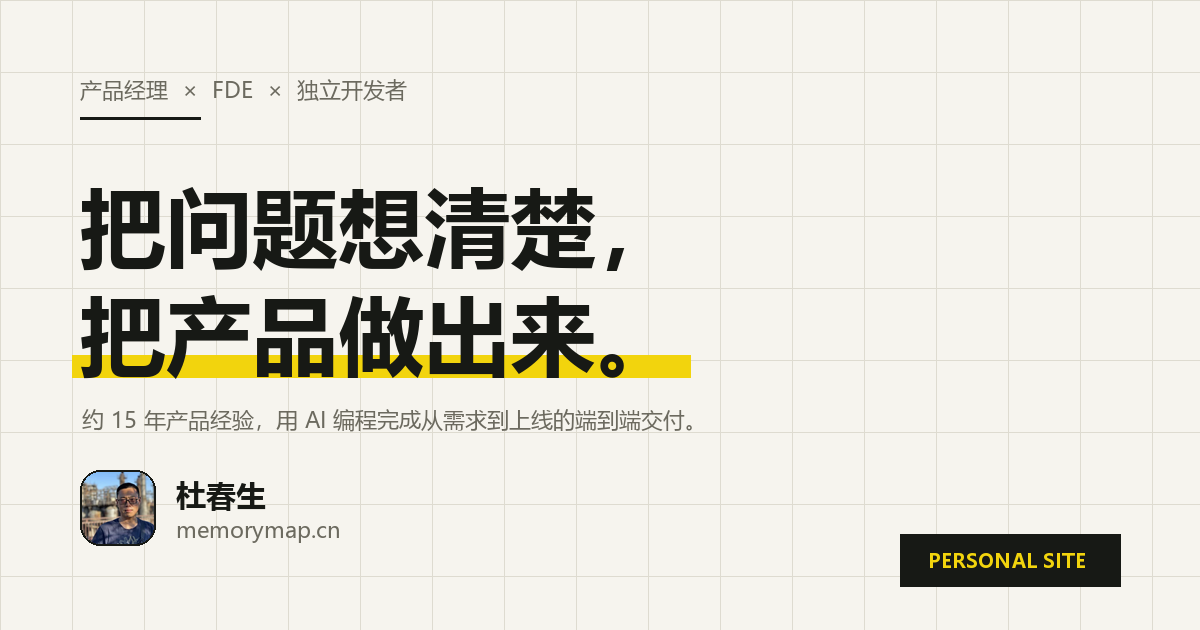
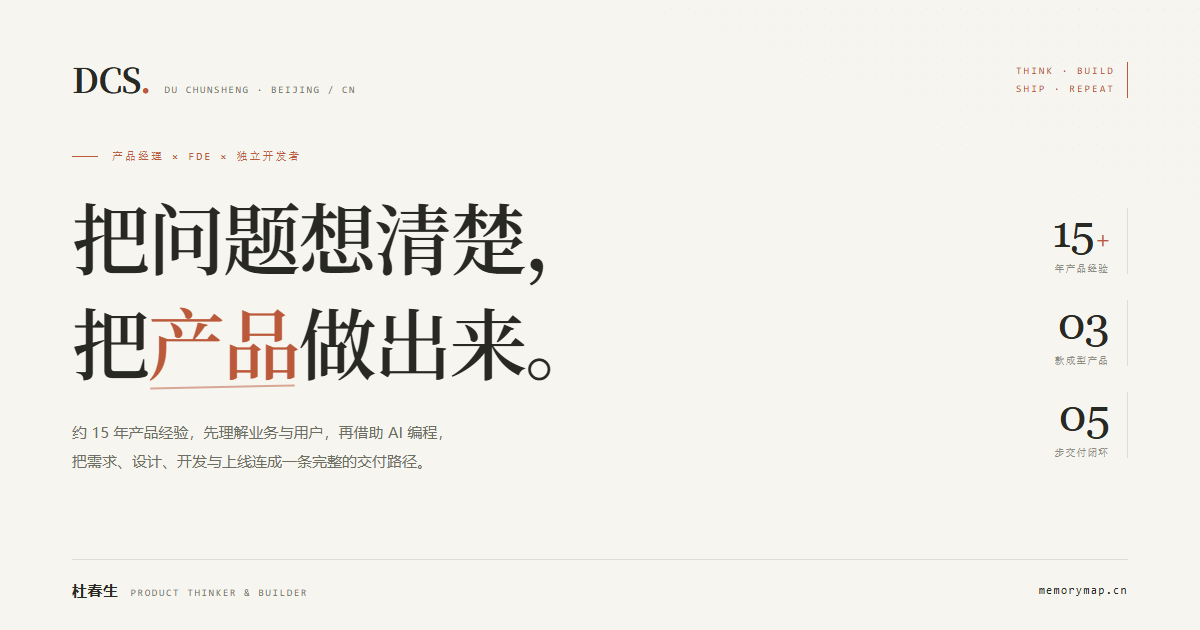
docs: 对齐官网 v2 改版（定位、产品、能力、项目、分享卡）

diff --git a/README.md b/README.md
@@ -10,15 +10,15 @@
 
 产品经理 × FDE（前沿部署工程师）× 独立开发者。
 
-约 15 年产品经验，让我习惯先理解业务与用户；现在借 AI 编程把能力延伸到开发、测试与上线——**把问题想清楚，把产品做出来。**
+约 15 年产品经验，先理解业务与用户，再借助 AI 编程，把需求、设计、开发与上线连成一条完整的交付路径——**把问题想清楚，把产品做出来。**
 
-我不太用技术名词介绍自己，更愿意直接给你看产品。
+从产品设计者，到端到端交付者。我不太用技术名词介绍自己，更愿意直接给你看产品。
 
 ---
 
 ## 独立产品
 
-三款已成型的产品，各自从一个具体问题开始。
+三个真实问题，三种产品形态。都从一个具体场景开始，也都走到了可以体验的地方。
 
 <table>
   <tr>
@@ -27,15 +27,15 @@
     </td>
     <td width="54%" valign="top">
       <h3>01 · 好运夹 goodluck+</h3>
-      <p><code>微信小程序 · Rokid Glasses</code></p>
-      <p><strong>把彩票这件事，收进一个夹子里。</strong></p>
+      <p><code>AI 工具 · 微信小程序 · 已上线</code></p>
+      <p><strong>把彩票，收进一个夹子。</strong></p>
       <ul>
-        <li>整张票拍照识别，支持手动校对</li>
+        <li>拍一张票自动识别号码，支持手动校对</li>
         <li>双色球与大乐透开奖自动比对、逐球高亮</li>
         <li>60 日兑奖提醒与 12 周购彩台账</li>
-        <li>手机与眼镜端共享同一份数据</li>
+        <li>手机与 Rokid 眼镜共享同一份数据</li>
       </ul>
-      <p><sub>只做记录、核对与管理，不卖票、不代购。</sub></p>
+      <p><sub>只做彩票管理，不卖票、不代购。</sub></p>
       <p><a href="https://lottery.memorymap.cn">lottery.memorymap.cn</a> ↗ · <a href="https://github.com/329604421/goodluck-plus">仓库</a></p>
     </td>
   </tr>
@@ -48,7 +48,7 @@
     </td>
     <td width="54%" valign="top">
       <h3>02 · 摇头晃脑</h3>
-      <p><code>Rokid Glasses · IMU 头控</code></p>
+      <p><code>体感游戏 · Rokid Glasses</code></p>
       <p><strong>五款经典游戏，转头就能玩。</strong></p>
       <ul>
         <li>打砖块、接鸡蛋、滚球迷宫、导弹指挥部、打飞机</li>
@@ -69,8 +69,8 @@
     </td>
     <td width="54%" valign="top">
       <h3>03 · Agent-ToDo</h3>
-      <p><code>微信小程序 · 平板 · PC</code></p>
-      <p><strong>几个项目同时开着，别让哪一条断在半路。</strong></p>
+      <p><code>多项目工作台 · 微信小程序 / 平板 / PC</code></p>
+      <p><strong>项目在切换，上下文不断线。</strong></p>
       <ul>
         <li>语音、文字与截图形成闪念胶囊</li>
         <li>项目待办、四档紧急度与脑图方案</li>
@@ -83,6 +83,8 @@
   </tr>
 </table>
 
+<sub>还有一些工具、应用与交互实验，正在路上。</sub>
+
 ---
 
 ## 我怎么把一件事做完
@@ -92,23 +94,45 @@
 | 01 · 聊透需求 | 02 · 设计解法 | 03 · AI 协同开发 | 04 · 测试与上线 | 05 · 反馈与迭代 |
 | :---: | :---: | :---: | :---: | :---: |
 | DISCOVER | DEFINE | BUILD | SHIP | ITERATE |
+| 理解业务与用户 | 原型、架构与 PRD | 快速构建可运行版本 | 完成场景验收 | 接住反馈持续迭代 |
+| 明确问题与约束 | 把验收口径说清楚 | 在交互中验证设计 | 部署到真实环境 | 让产品持续变好 |
 
 我更在意的不是「用了什么模型」，而是**需求转译的损耗有没有减少**——让理解业务的人直接参与实现，让原始场景、约束与验收标准始终在同一条线上。
 
+<sub>输入：业务问题与现场上下文　/　输出：可用产品与真实交付</sub>
+
 ---
 
-## 技术方向
+## 能力与方向
 
-| 方向 | 关注点 |
-| --- | --- |
-| AR / 可穿戴交互 | 头控输入手感、透明屏的信息密度、没有手柄时操作怎么收敛 |
-| AI Agent 工程化 | 待办与 agent 之间的任务契约、配额与运行态、结果回流的可读性 |
-| 小程序全栈 | 票据拍照 OCR、本地优先的数据层、日历与热力图的轻量可视化 |
-| 设计工程化 | 设计稿与代码的单点真相，让 1px 级的反馈能落进版本控制 |
+四个方向，都在真实项目里用过。
 
-代码写在 [shake-head](https://github.com/329604421/shake-head)（五款头控游戏，
-含 1378 条回归断言）与 [goodluck-plus](https://github.com/329604421/goodluck-plus)（好运夹的需求、
-设计规范与工程）。
+| 方向 | 在做什么 | 用到的 |
+| --- | --- | --- |
+| **A · AI Agent 与数据** | 把知识库、自然语言查询与文档检索嵌进业务流程；在意待办与 agent 之间的任务契约、配额与运行态 | LLM 与提示词调试、文档索引、OCR、结构化数据 |
+| **B · 多端产品交付** | 按每个终端的使用场景分配能力，而不是机械复制界面 | 微信小程序、公众号、手机 / 平板 / PC / Android |
+| **C · 硬件与空间交互** | 围绕传感器、显示与输入的真实约束设计交互：头控手感、透明屏的信息密度 | IMU 头控、Rokid 单绿 AR、RFID、重力与视觉识别 |
+| **D · 业务系统与集成** | 把新能力接进现有角色、数据与流程，兼顾目标与可行性 | SCRM、DMS、CRM、微信支付、支付宝、企业流程 |
+
+代码写在 [shake-head](https://github.com/329604421/shake-head)（五款头控游戏，含 1378 条回归断言）与 [goodluck-plus](https://github.com/329604421/goodluck-plus)（好运夹的需求、设计规范与工程）。
+
+---
+
+## 企业项目
+
+零售、支付、汽车、园区与 AI，都留下过可验收的东西。
+
+| 时间 | 项目 | 角色 |
+| --- | --- | --- |
+| 2025.11 — 2026.02 | **BMW-iQAF for PUR** · AI 采购数据与文档检索 | 产品经理 |
+| 2025.10 — 2026.02 | **BMW-Smart Handover** · 采购交接智能审核 | 产品经理 |
+| 2022.06 — 2025.03 | **宝马中国 CBW 系统** · 客户与线索服务流程 | 产品经理 |
+| 2021.02 — 2022.07 | **上汽奥迪 Astro 中台** · 中台能力与经销商服务 | 产品经理 |
+| 2020.07 — 2021.08 | **一汽丰田官方触点平台 & ADMS 二期** | 产品经理 |
+| 2020.04 — 2021.07 | **江苏园博园游客线上服务系统** · 票务与停车缴费 | 产品经理 & 项目经理 |
+| 2017.03 — 2019.08 | **智能售货柜系统** · 多传感器结算与无人零售 | 产品经理 |
+
+每个项目解决什么问题、怎么解的、边界在哪，写在官网的[项目实践](https://memorymap.cn/#practice)里。
 
 ---
 
@@ -116,15 +140,23 @@
 
 | 时间 | 公司与组织 | 角色 |
 | --- | --- | --- |
-| 2020.04 — 至今 | 北明软件（北京） | 产品经理 |
-| 2015.09 — 2019.12 | 微连锁（北京）科技 | 产品总监 |
-| 2012.08 — 2015.08 | 富景天策（北京）气象科技 | 产品经理 |
+| 2020.04 — 至今 | 北明软件有限公司北京分公司 | 产品经理 |
+| 2015.09 — 2019.12 | 微连锁（北京）科技发展有限公司 | 产品总监 |
+| 2012.08 — 2015.08 | 富景天策（北京）气象科技有限公司 | 产品经理 |
 | 2012.01 — 2012.08 | 凡客诚品 | 数据分析师 |
 | 2008.07 — 2011.12 | 清华大学环境影响评价室 | 数据分析师 |
 
 中国石油大学（北京） · 环境科学 · 2004—2008
 
-企业侧参与过的项目：宝马中国（报价知识库 iQAF、Smart Handover 智能交接、CBW 客服系统）、上汽奥迪 Astro 中台、一汽丰田官方触点与 ADMS、江苏园博园票务与停车缴费、智能售货柜系统。
+从数据分析、产品管理，到企业数字化与 AI 项目。行业在变，拆解问题、理解用户、推进交付的方法一直在积累。
+
+---
+
+## 工作之外
+
+长跑。我的微信昵称也叫「长跑男」——生活里的另一张名片。
+
+**10 公里 PB 44:33　·　半程马拉松 PB 01:39:26**
 
 ---
 
@@ -138,7 +170,7 @@
     <td valign="middle">
       <p><strong>微信公众号：野生FDE老杜</strong></p>
       <p>合作咨询、产品试用与反馈都走这一个入口。关注后在公众号后台私信，附上具体场景与目标，我能更快给出判断。</p>
-      <p>个人主页：<a href="https://memorymap.cn">memorymap.cn</a></p>
+      <p>个人主页：<a href="https://memorymap.cn">memorymap.cn</a> · 代码与过程：<a href="https://github.com/329604421">github.com/329604421</a></p>
     </td>
   </tr>
 </table>
